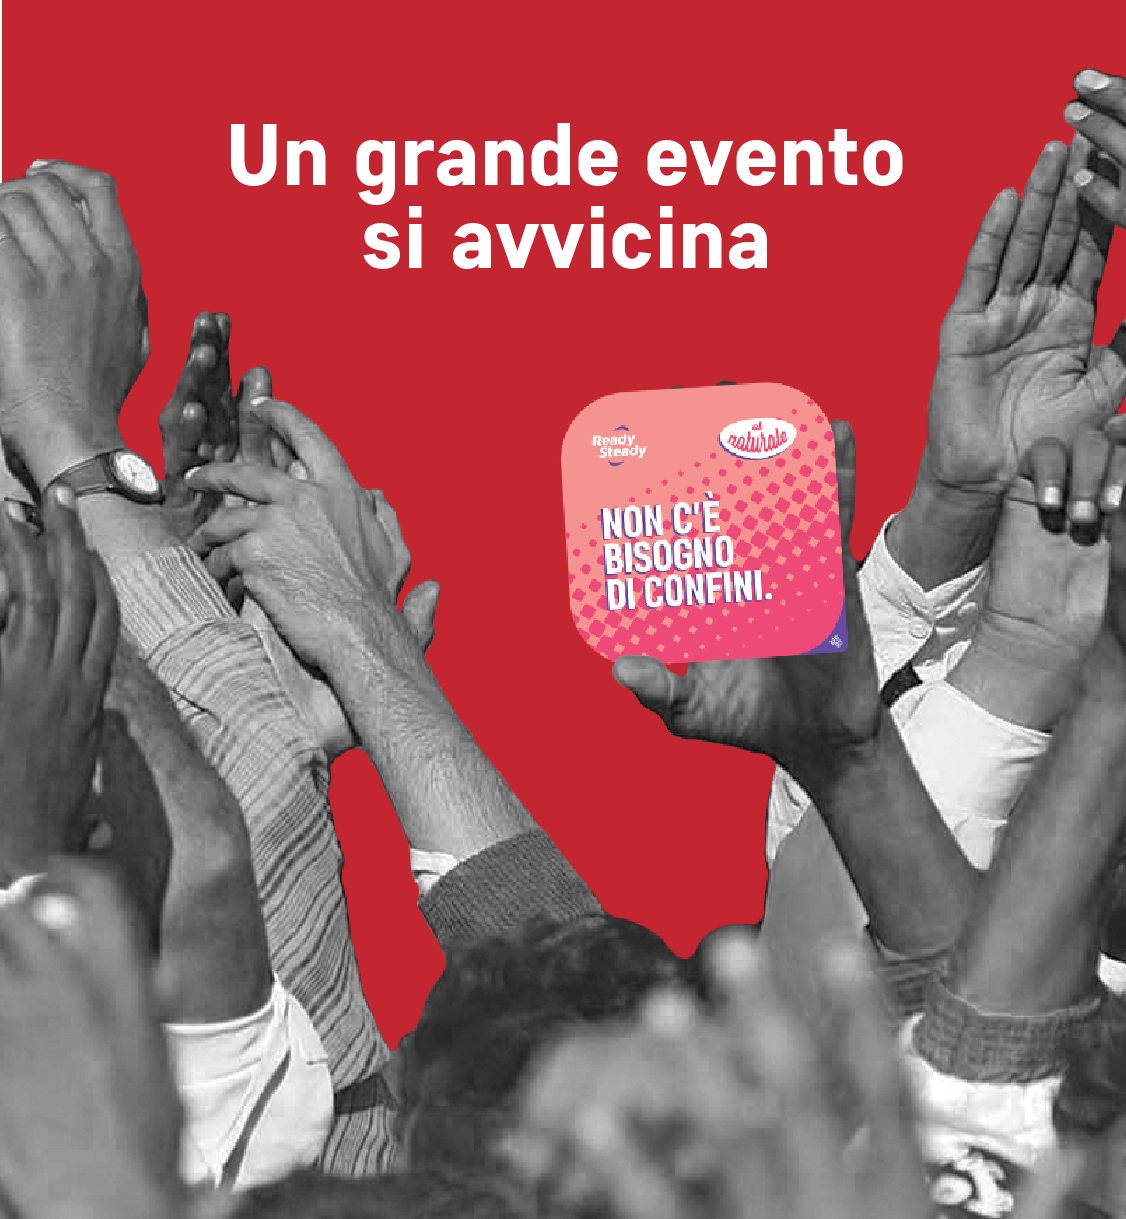
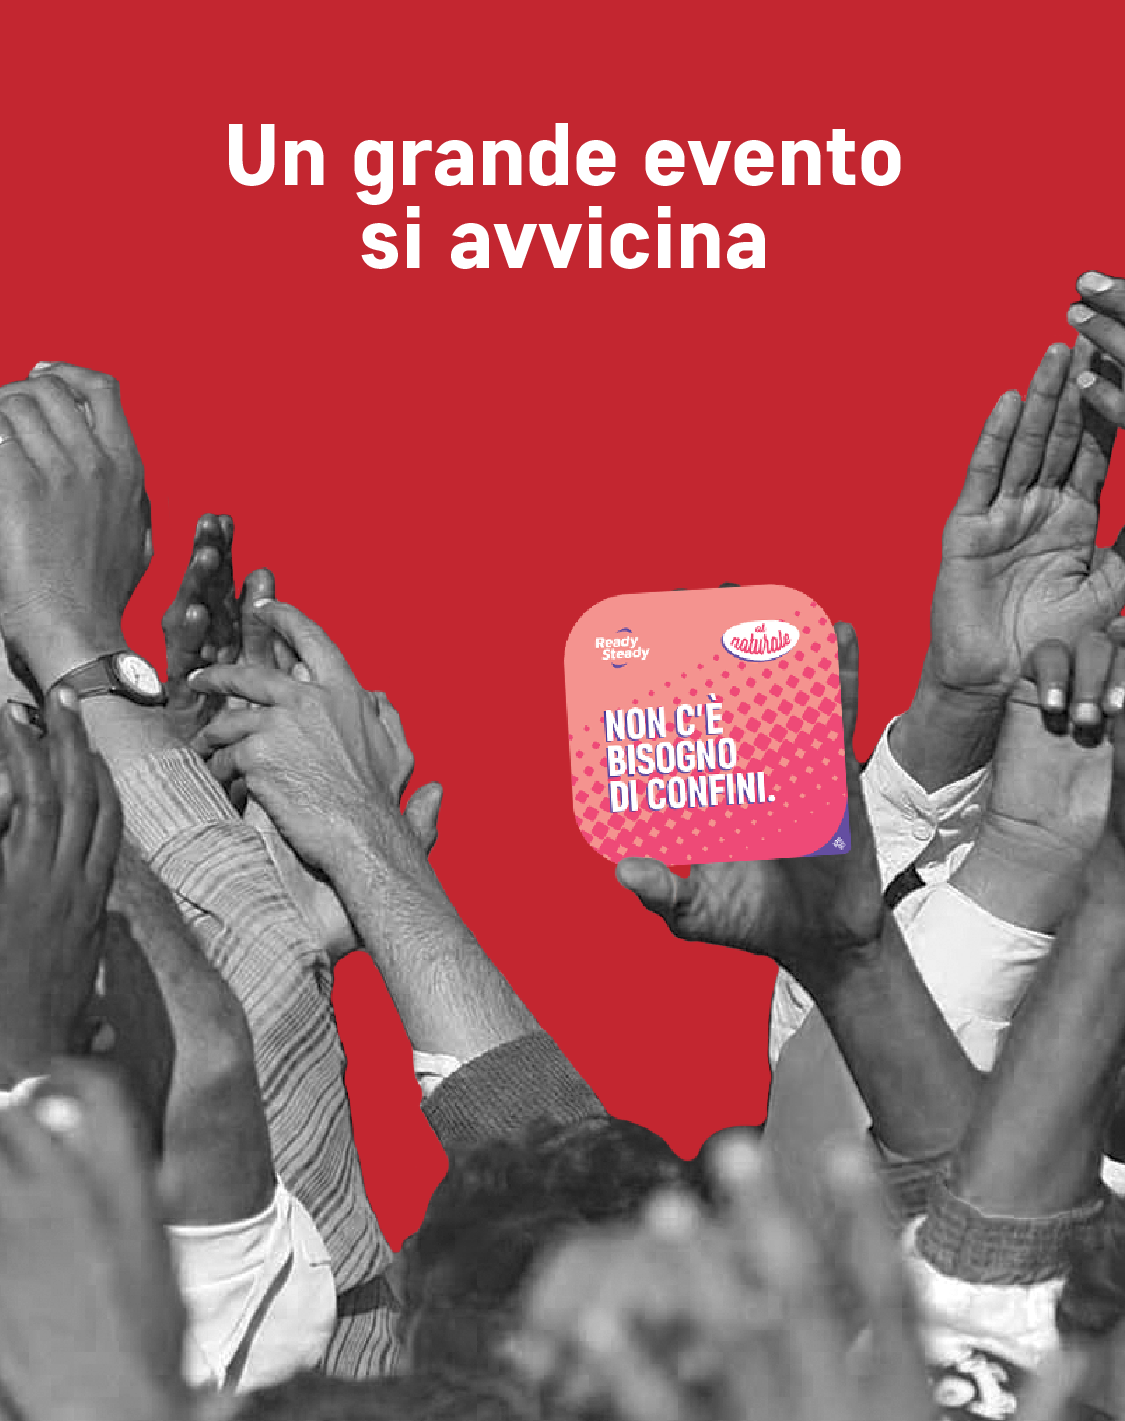
frecce

diff --git a/mobile/index.mobile.html b/mobile/index.mobile.html
@@ -60,7 +60,7 @@
     width: 100%; height: 35.8%;
     background-image: url("./links/banner.png");
     background-size: cover;
-    background-position: center;
+    background-position: center top;
     background-repeat: no-repeat;
   }
 
@@ -176,6 +176,27 @@
     transition: 0.5s;
     opacity: 0.5;
   }
+
+  #frecciasx {
+    position: absolute;
+    top: 0; left: 5.55;
+    width: 5.55%; height: 50%;
+    background-image: url("../links/eRisorsa 17.png");
+    background-position: right center;
+    background-repeat: no-repeat;
+    background-size: contain;
+  }
+
+  #frecciadx {
+    position: absolute;
+    right: 5.55; top: 0;
+    width: 5.55%; height: 50%;
+    background-image: url("../links/eRisorsa 18.png");
+    background-position: left center;
+    background-repeat: no-repeat;
+    background-size: contain;
+  }
+
 </style>
 <body>
   <div id="wrapper" class="noSelect">
@@ -212,6 +233,10 @@
       </div>
       <div id="pall2" class="pall opacita">
       </div>
+    </div>
+    <div id="frecciasx" class="freccia">
+    </div>
+    <div id="frecciadx" class="freccia">
     </div>
   </div>
 </body>
@@ -251,17 +276,8 @@
 
   timer = setTimeout(bannerVa, 10000)
 
-  var controlBanner = 0;
-  var lastScrollLeft = 0;
-  //swipe
-  $(document).scroll(function(event){
-    console.log("ciao")
-   var st = $(this).scrollLeft();
-   if(st != lastScrollLeft) {
-     bannerVa();
-     lastScrollLeft = st;
-   }
-});
+  //frecce banner
+    $(".freccia").click(bannerVa)
 
 </script>
 
